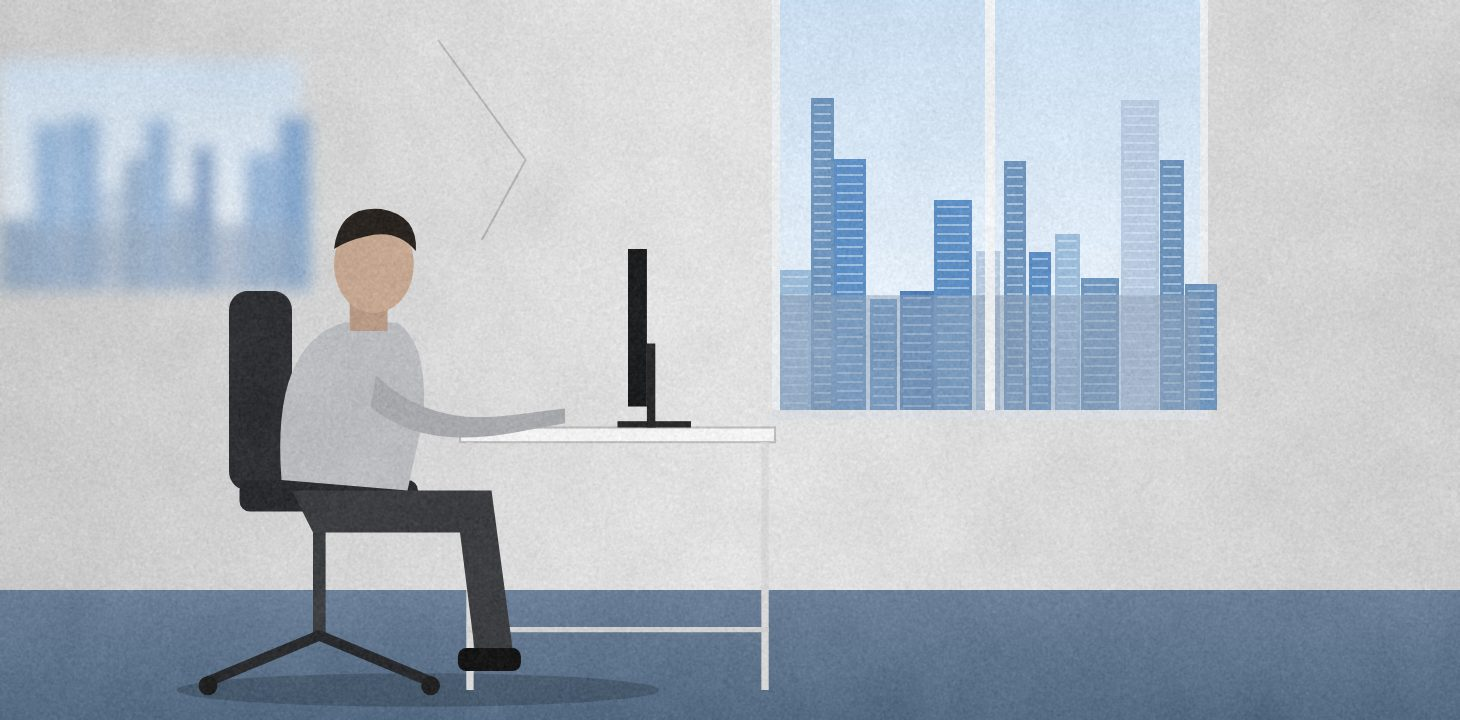
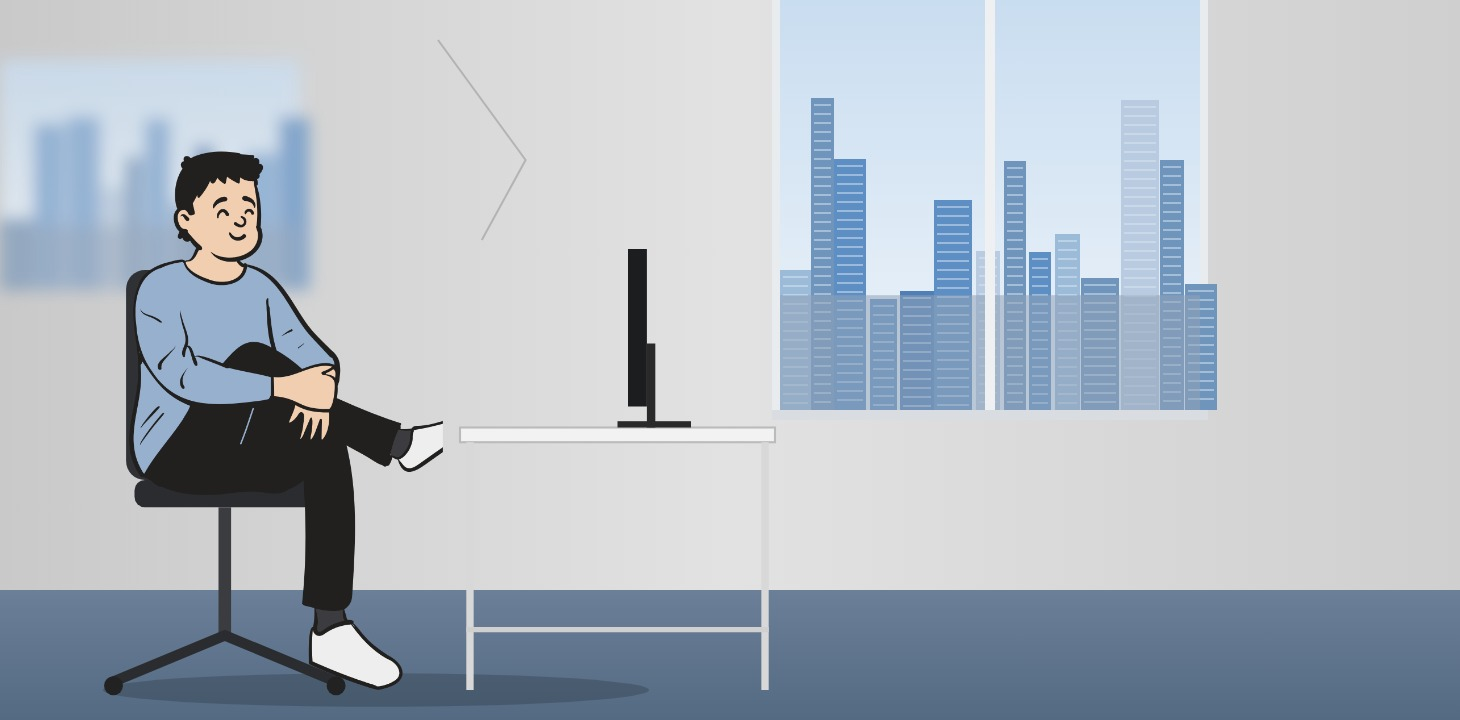
Replace the crude people in template sample images
The hand-drawn figures in 13 sample images had odd proportions and
faceless heads. Swap them for Open Peeps illustrations (Pablo Stanley,
CC0), recoloured per scene and placed where each template expects the
face or hand, and redraw the dialogue-shot silhouettes with realistic
head, neck and shoulder proportions. README credits the source.

Claude-Session: https://claude.ai/code/session_01B4HFrkZU5xa8Mfs94pMA5i

Changed region(s): [[0.0616, 0.2139, 0.4007, 0.9778]]

diff --git a/README.md b/README.md
@@ -270,6 +270,8 @@ pnpm compare --rendered out.mp4 --original clip.mp4 --diff diff.mp4
 
 每个案例都记录了每一轮迭代的分数、踩过的坑，以及怎么换成你自己的内容。
 
+模板示例图里的人物插画来自 [Open Peeps](https://www.openpeeps.com/)（Pablo Stanley 绘制，CC0 公共领域，可以免费商用），按场景重新上色、摆位；对话镜头里的剪影按真人头身比例画。
+
 ## 导出
 
 | 格式 | 用途 |
